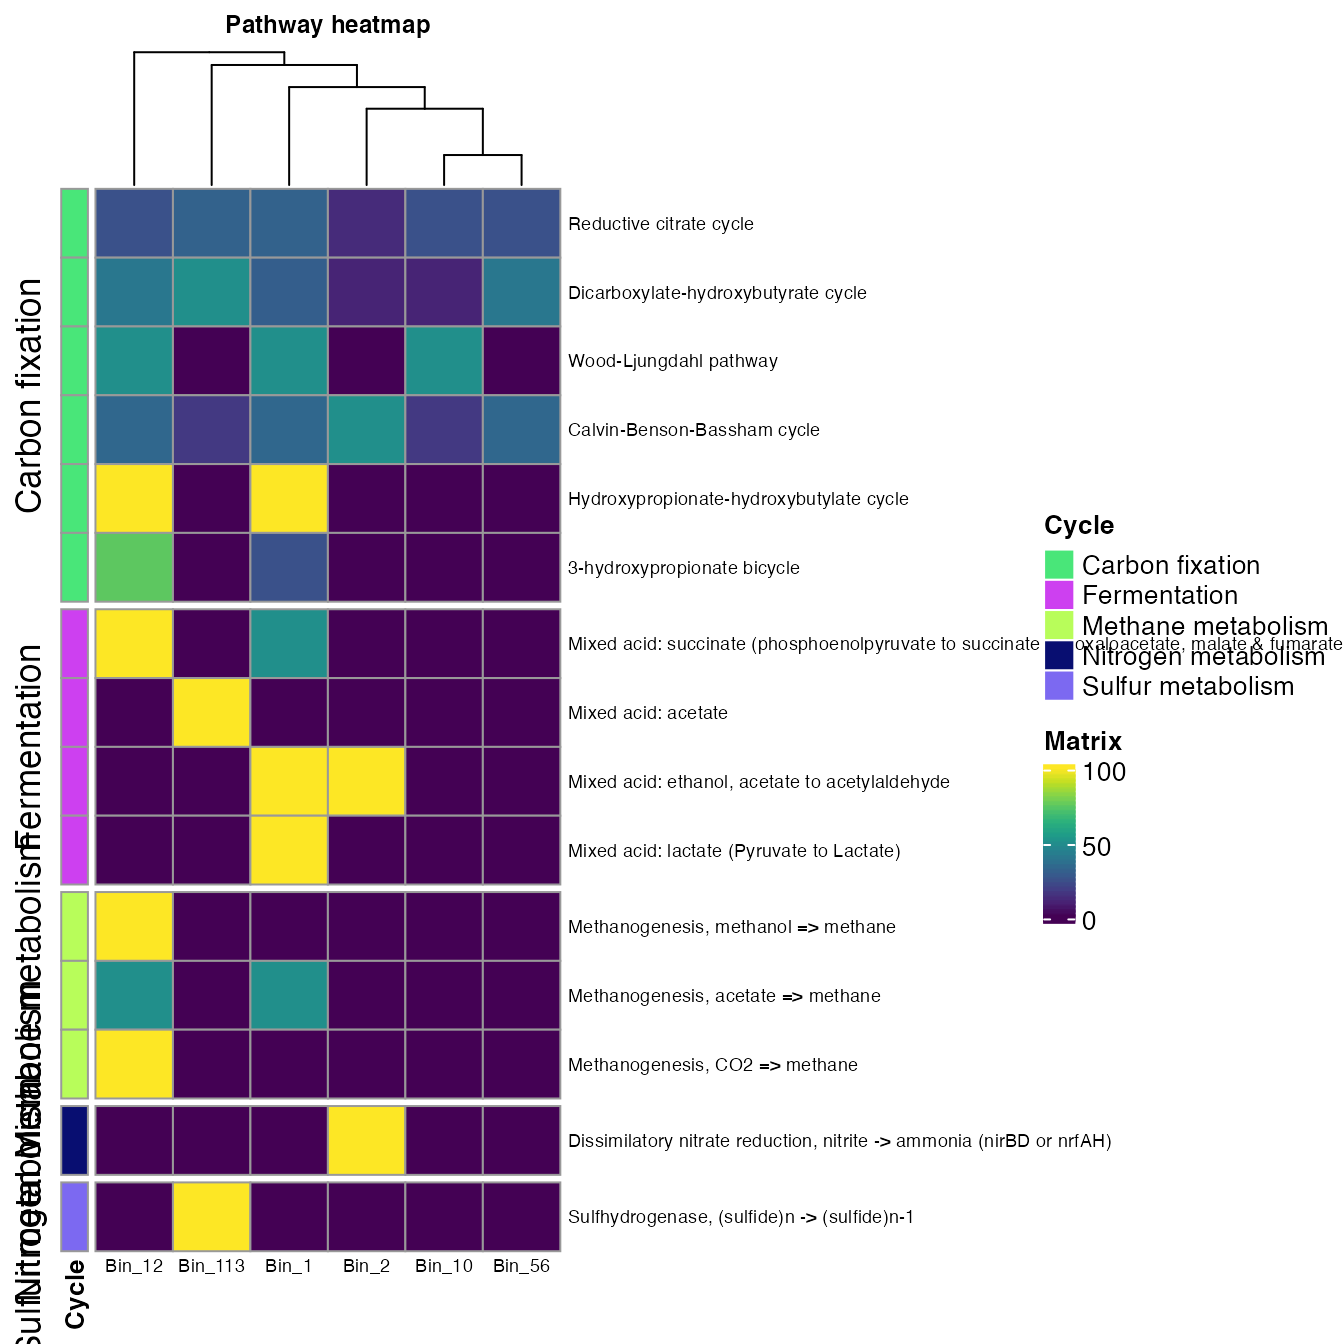
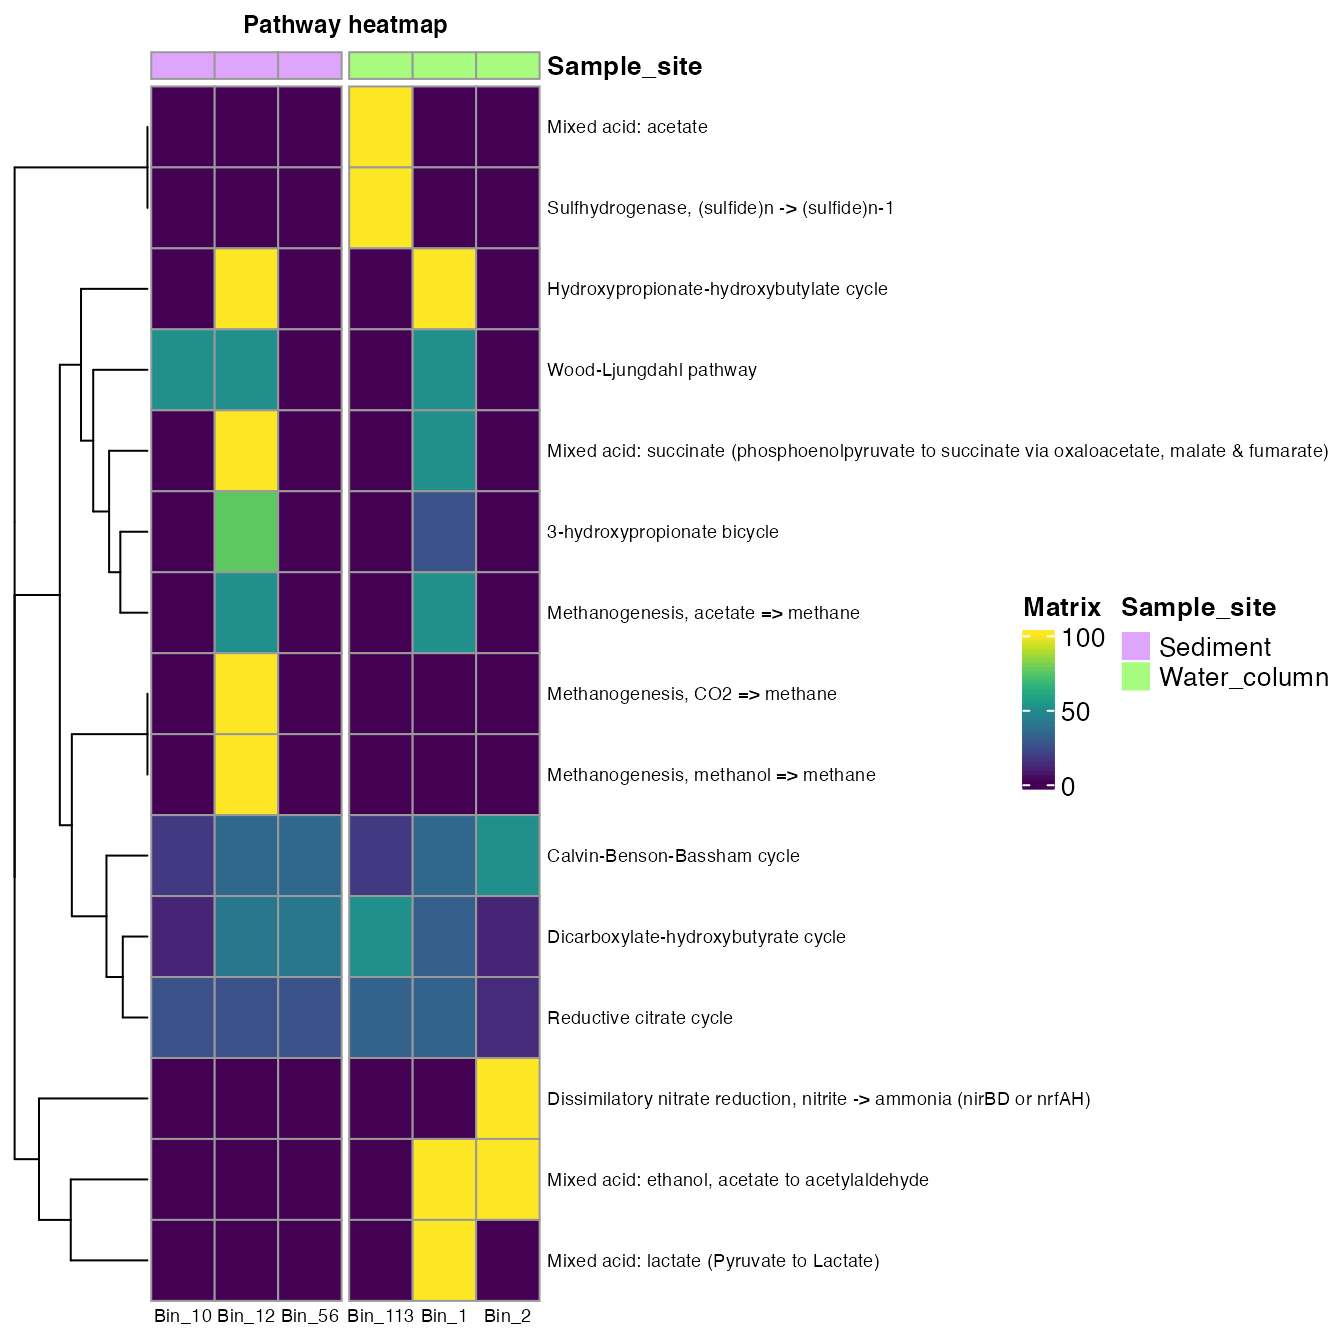
Update site

diff --git a/docs/articles/Explore_KEGG_profile.html b/docs/articles/Explore_KEGG_profile.html
@@ -110,15 +110,15 @@
 
     
     
-<p>First load the rbims package.</p>
+<p>First, load the rbims package.</p>
 <div class="sourceCode" id="cb1"><pre class="downlit sourceCode r">
 <code class="sourceCode R"><span class="kw"><a href="https://rdrr.io/r/base/library.html">library</a></span><span class="op">(</span><span class="va"><a href="https://github.com/mirnavazquez/RbiMs">rbims</a></span><span class="op">)</span></code></pre></div>
-<p>The second thing to do would be read the metadata file and the <a href="https://github.com/mirnavazquez/RbiMs/blob/main/inst/extdata/KEGG_bins.txt">KofamKOALA/KofamScan</a> output. The metadata file is a tab-separated file containing the name of your bins and any extra information you would like to use for visualization.</p>
+<p>The second thing to do would be to read the metadata file and the <a href="https://github.com/mirnavazquez/RbiMs/blob/main/inst/extdata/KEGG_bins.txt">KofamKOALA/KofamScan</a> output. The metadata file is a tab-separated file containing the name of your bins and any extra information you would like to use for visualization.</p>
 <div id="read-metadata" class="section level1">
 <h1 class="hasAnchor">
 <a href="#read-metadata" class="anchor"></a>Read metadata</h1>
-<p>The metadata file contains external information of each bin, like sample site or taxonomy. This information can be used in downstream analysis, the name of the bins at the first column is mandatory.</p>
-<p>The table can be read in a variety of formats (csv, tsv, txt, xlsx), you will just need to use the corresponding function to read the type of file that you have. In this case, the example table of rbims is in excel format, therefore, to read the metadata we will use the function <code>read_excel</code> from the package <code>readxl</code>. You can download the metadata example file <a href="https://github.com/mirnavazquez/RbiMs/blob/main/inst/extdata/metadata.xlsx">metadata</a> and try.</p>
+<p>The metadata file contains external information of each bin, like sample site or taxonomy. The name of the bins in the first column is mandatory.</p>
+<p>The metadata table can be read in various formats (csv, tsv, txt, xlsx); you will need to use the corresponding function to read the type of file you have. In this case, the example table of rbims is in excel format; therefore, to read the metadata, we will use the function <code>read_excel</code> from the package <code>readxl</code>. You can download the metadata example file <a href="https://github.com/mirnavazquez/RbiMs/blob/main/inst/extdata/metadata.xlsx">metadata</a> and try.</p>
 <div class="sourceCode" id="cb2"><pre class="downlit sourceCode r">
 <code class="sourceCode R"><span class="kw"><a href="https://rdrr.io/r/base/library.html">library</a></span><span class="op">(</span><span class="va"><a href="https://readxl.tidyverse.org">readxl</a></span><span class="op">)</span>
 <span class="va">metadata</span><span class="op">&lt;-</span><span class="fu"><a href="https://readxl.tidyverse.org/reference/read_excel.html">read_excel</a></span><span class="op">(</span><span class="st">"metadata.xlsx"</span><span class="op">)</span></code></pre></div>
@@ -133,11 +133,12 @@
 <span class="co">#&gt; 4 Bin_113  Water_column Clade_1 d__Bac… p__Pro… c__A… o__R… f__Rh… g__P… s__Par…</span>
 <span class="co">#&gt; 5 Bin_1    Water_column Clade_2 d__Bac… p__Pro… c__G… o__E… f__Al… g__A… s__Alt…</span>
 <span class="co">#&gt; 6 Bin_2    Water_column Clade_3 d__Bac… p__Pro… c__G… o__E… f__Al… g__A… s__Alt…</span></code></pre></div>
-<p>If you followed the create KEGG profile tutorial you can go directly to case example of exploring and specific pathway.</p>
+<p>If you followed the create KEGG profile tutorial, you could go directly to a <a href="https://mirnavazquez.github.io/RbiMs/articles/Explore_KEGG_profile.html#example-of-exploring-an-specific-kegg-pathway-1">case example of exploring and specific pathway</a>.</p>
 </div>
 <div id="read-the-kegg-results" class="section level1">
 <h1 class="hasAnchor">
 <a href="#read-the-kegg-results" class="anchor"></a>Read the KEGG results</h1>
+<p><a href="https://mirnavazquez.github.io/RbiMs/reference/read_ko.html">read_ko</a> can read as input file the files obtained from <a href="https://www.genome.jp/tools/kofamkoala/">KofamKOALA/KofamScan</a> or <a href="https://www.genome.jp/kegg/kaas/">KAAS</a>. If you use both and there are different hits for a KO in both searches, it will take the hit from KofamKOALA/KofamScan.</p>
 <div class="sourceCode" id="cb4"><pre class="downlit sourceCode r">
 <code class="sourceCode R"><span class="va">ko_bin_table</span><span class="op">&lt;-</span><span class="fu"><a href="../reference/read_ko.html">read_ko</a></span><span class="op">(</span>data_kofam <span class="op">=</span><span class="st">"KEGG_bins.txt"</span><span class="op">)</span></code></pre></div>
 </div>
@@ -158,12 +159,12 @@
 <li><a href="https://mirnavazquez.github.io/RbiMs/reference/get_subset_unique.html">get_subset_unique</a></li>
 </ul>
 </div>
-<div id="example-of-exploring-an-specific-kegg-pathway" class="section level1">
+<div id="example-of-exploring-a-specific-kegg-pathway" class="section level1">
 <h1 class="hasAnchor">
-<a href="#example-of-exploring-an-specific-kegg-pathway" class="anchor"></a>Example of exploring an specific KEGG pathway</h1>
+<a href="#example-of-exploring-a-specific-kegg-pathway" class="anchor"></a>Example of exploring a specific KEGG pathway</h1>
 <p>Let’s say that you are interested in the genes associated with the biofilm formation in Vibrio Cholerae.</p>
 <ul>
-<li>One first thing could be to create a vector containing the name of the KEGG pathway associated with the biofilm formation in Vibrio Cholerae <a href="https://www.kegg.jp/pathway/map05111">map05111</a>.</li>
+<li>One option is to create a vector containing the name of the KEGG pathway associated with the biofilm formation in Vibrio Cholerae <a href="https://www.kegg.jp/pathway/map05111">map05111</a>.</li>
 </ul>
 <div class="sourceCode" id="cb6"><pre class="downlit sourceCode r">
 <code class="sourceCode R"><span class="va">Biofilm_Vibrio</span><span class="op">&lt;-</span><span class="fu"><a href="https://rdrr.io/r/base/c.html">c</a></span><span class="op">(</span><span class="st">"map05111"</span><span class="op">)</span></code></pre></div>
@@ -191,7 +192,7 @@
 <span class="co">#&gt; #   rbims_sub_pathway &lt;chr&gt;, Bin_10 &lt;int&gt;, Bin_12 &lt;int&gt;, Bin_56 &lt;int&gt;,</span>
 <span class="co">#&gt; #   Bin_113 &lt;int&gt;, Bin_1 &lt;int&gt;, Bin_2 &lt;int&gt;</span></code></pre></div>
 <ul>
-<li>Now, let’s create a plot of presence and absence of the different KO associated to that pathway. Besides presence and absence, it is possible to plot abundance or the percentage of genes within certain pathways (See ?plot_bubble, calc argument).</li>
+<li>Now, let’s create a plot of the presence and absence of the different KO associated with that pathway. Besides presence and absence, it is possible to plot abundance or the percentage of genes within certain pathways (See <a href="https://mirnavazquez.github.io/RbiMs/reference/plot_bubble.html">plot_bubble</a>, calc argument).</li>
 </ul>
 <div class="sourceCode" id="cb9"><pre class="downlit sourceCode r">
 <code class="sourceCode R"><span class="fu"><a href="../reference/plot_bubble.html">plot_bubble</a></span><span class="op">(</span>tibble_ko <span class="op">=</span> <span class="va">Biofilm_Vibrio_subset</span>,
@@ -229,7 +230,7 @@
 <span class="co">#&gt; Warning: Removed 66 rows containing missing values (geom_point).</span></code></pre></div>
 <p><img src="Explore_KEGG_profile_files/figure-html/unnamed-chunk-11-1.png" width="672"></p>
 <ul>
-<li>The same way that we created a vector containing the KEGG pathway ID in which we are interested, we could create a vector with KOs IDs of interest or KEGG modules.</li>
+<li>In the same way, we created a vector with the KEGG pathway ID of interest; we can create a vector of specific KOs IDs or KEGG modules.</li>
 </ul>
 <p>Here I will extract the information of some KO related to Carbon fixation metabolism.</p>
 <div class="sourceCode" id="cb12"><pre class="downlit sourceCode r">
@@ -257,7 +258,7 @@
 <span class="co">#&gt; #   Gene_description &lt;chr&gt;, Enzyme &lt;chr&gt;, KO &lt;chr&gt;, rbims_pathway &lt;chr&gt;,</span>
 <span class="co">#&gt; #   rbims_sub_pathway &lt;chr&gt;, Bin_10 &lt;int&gt;, Bin_12 &lt;int&gt;, Bin_56 &lt;int&gt;,</span>
 <span class="co">#&gt; #   Bin_113 &lt;int&gt;, Bin_1 &lt;int&gt;, Bin_2 &lt;int&gt;</span></code></pre></div>
-<p>We can visualize the data with the a <a href="https://mirnavazquez.github.io/RbiMs/reference/plot_heatmap.html">heatmap</a>.</p>
+<p>We can visualize the data with a <a href="https://mirnavazquez.github.io/RbiMs/reference/plot_heatmap.html">heatmap</a>.</p>
 <div class="sourceCode" id="cb15"><pre class="downlit sourceCode r">
 <code class="sourceCode R"><span class="fu"><a href="../reference/plot_heatmap.html">plot_heatmap</a></span><span class="op">(</span>tibble_ko<span class="op">=</span><span class="va">Carbon_fixation_subset</span>, 
              y_axis<span class="op">=</span><span class="va">Genes</span>,
@@ -268,7 +269,7 @@
 <div id="the-calc-argument" class="section level2">
 <h2 class="hasAnchor">
 <a href="#the-calc-argument" class="anchor"></a>The calc argument</h2>
-<p>In this example we will use the energy metabolism to explore the rest of the functions.</p>
+<p>In this example, we will use energy metabolism to explore the rest of the functions.</p>
 <ul>
 <li>Create a vector with the metabolism of interest.</li>
 </ul>
@@ -276,10 +277,11 @@
 <code class="sourceCode R"><span class="va">Other_energy</span><span class="op">&lt;-</span><span class="fu"><a href="https://rdrr.io/r/base/c.html">c</a></span><span class="op">(</span><span class="st">"Fermentation"</span>, <span class="st">"Carbon fixation"</span>, <span class="st">"Methane metabolism"</span>, 
                 <span class="st">"Sulfur metabolism"</span>, <span class="st">"Nitrogen metabolism"</span><span class="op">)</span></code></pre></div>
 <ul>
-<li>Use get_subset_pathway to subset the table using the cycles and the information of the energy metabolism.</li>
+<li>Use <a href="https://mirnavazquez.github.io/RbiMs/reference/get_subset_pathway.html">get_subset_pathway</a> to subset the table using the cycles and the information of the energy metabolism.</li>
 </ul>
 <div class="sourceCode" id="cb17"><pre class="downlit sourceCode r">
-<code class="sourceCode R"><span class="va">Energy_metabolisms</span><span class="op">&lt;-</span><span class="va">ko_bin_mapp</span> <span class="op">%&gt;%</span>
+<code class="sourceCode R"><span class="kw"><a href="https://rdrr.io/r/base/library.html">library</a></span><span class="op">(</span><span class="va"><a href="https://tidyr.tidyverse.org">tidyr</a></span><span class="op">)</span>
+<span class="va">Energy_metabolisms</span><span class="op">&lt;-</span><span class="va">ko_bin_mapp</span> <span class="op">%&gt;%</span>
   <span class="fu"><a href="https://tidyr.tidyverse.org/reference/drop_na.html">drop_na</a></span><span class="op">(</span><span class="va">Cycle</span><span class="op">)</span> <span class="op">%&gt;%</span>
   <span class="fu"><a href="../reference/get_subset_pathway.html">get_subset_pathway</a></span><span class="op">(</span><span class="va">Cycle</span>, <span class="va">Other_energy</span><span class="op">)</span></code></pre></div>
 <div class="sourceCode" id="cb18"><pre class="downlit sourceCode r">
@@ -298,7 +300,7 @@
 <span class="co">#&gt; #   rbims_sub_pathway &lt;chr&gt;, Bin_10 &lt;int&gt;, Bin_12 &lt;int&gt;, Bin_56 &lt;int&gt;,</span>
 <span class="co">#&gt; #   Bin_113 &lt;int&gt;, Bin_1 &lt;int&gt;, Bin_2 &lt;int&gt;</span></code></pre></div>
 <ul>
-<li>Plot the information using the <a href="https://mirnavazquez.github.io/RbiMs/reference/plot_heatmap.html">plot_heatmap</a> function.</li>
+<li>Plot the information using the <a href="https://mirnavazquez.github.io/RbiMs/reference/plot_heatmap.html">plot_heatmap</a> function. The argument order_y will order the rows according to a metabolic feature; in this case, we order the pathways_cycle according to cycle.</li>
 </ul>
 <div class="sourceCode" id="cb19"><pre class="downlit sourceCode r">
 <code class="sourceCode R"><span class="fu"><a href="../reference/plot_heatmap.html">plot_heatmap</a></span><span class="op">(</span>tibble_ko<span class="op">=</span><span class="va">Energy_metabolisms</span>, 
@@ -308,20 +310,31 @@
              calc<span class="op">=</span><span class="st">"Percentage"</span><span class="op">)</span></code></pre></div>
 <p><img src="Explore_KEGG_profile_files/figure-html/unnamed-chunk-19-1.png" width="672"></p>
 <ul>
-<li>The split argument allows to divide the rows according to certain value of the metadata.</li>
+<li>The argument order_x will order the rows according to a metadata feature; in this case, we order the bins according to sample site.</li>
 </ul>
 <div class="sourceCode" id="cb20"><pre class="downlit sourceCode r">
+<code class="sourceCode R"><span class="fu"><a href="../reference/plot_heatmap.html">plot_heatmap</a></span><span class="op">(</span>tibble_ko<span class="op">=</span><span class="va">Energy_metabolisms</span>, 
+             y_axis<span class="op">=</span><span class="va">Pathway_cycle</span>,
+             data_experiment<span class="op">=</span><span class="va">metadata</span>,
+             order_x <span class="op">=</span> <span class="va">Sample_site</span>,
+             analysis <span class="op">=</span> <span class="st">"KEGG"</span>,
+             calc<span class="op">=</span><span class="st">"Percentage"</span><span class="op">)</span></code></pre></div>
+<p><img src="Explore_KEGG_profile_files/figure-html/unnamed-chunk-20-1.png" width="672"></p>
+<ul>
+<li>The split argument allows dividing the rows according to a specific value of the metadata.</li>
+</ul>
+<div class="sourceCode" id="cb21"><pre class="downlit sourceCode r">
 <code class="sourceCode R"><span class="fu"><a href="../reference/plot_heatmap.html">plot_heatmap</a></span><span class="op">(</span>tibble_ko<span class="op">=</span><span class="va">Energy_metabolisms</span>, 
              y_axis<span class="op">=</span><span class="va">Pathway_cycle</span>,
              order_y <span class="op">=</span> <span class="va">Cycle</span>,
              split_y <span class="op">=</span> <span class="cn">TRUE</span>,
              analysis <span class="op">=</span> <span class="st">"KEGG"</span>,
              calc<span class="op">=</span><span class="st">"Percentage"</span><span class="op">)</span></code></pre></div>
-<p><img src="Explore_KEGG_profile_files/figure-html/unnamed-chunk-20-1.png" width="672"></p>
+<p><img src="Explore_KEGG_profile_files/figure-html/unnamed-chunk-21-1.png" width="672"></p>
 <ul>
 <li>The order_x argument allows you to add annotation info from the metadata for the columns.</li>
 </ul>
-<div class="sourceCode" id="cb21"><pre class="downlit sourceCode r">
+<div class="sourceCode" id="cb22"><pre class="downlit sourceCode r">
 <code class="sourceCode R"><span class="fu"><a href="../reference/plot_heatmap.html">plot_heatmap</a></span><span class="op">(</span>tibble_ko<span class="op">=</span><span class="va">Energy_metabolisms</span>,
              data_experiment <span class="op">=</span> <span class="va">metadata</span>,
              y_axis<span class="op">=</span><span class="va">Pathway_cycle</span>,
@@ -330,7 +343,7 @@
              split_y <span class="op">=</span> <span class="cn">TRUE</span>,
              analysis <span class="op">=</span> <span class="st">"KEGG"</span>,
              calc<span class="op">=</span><span class="st">"Percentage"</span><span class="op">)</span></code></pre></div>
-<p><img src="Explore_KEGG_profile_files/figure-html/unnamed-chunk-21-1.png" width="672"></p>
+<p><img src="Explore_KEGG_profile_files/figure-html/unnamed-chunk-22-1.png" width="672"></p>
 </div>
 </div>
   </div>
